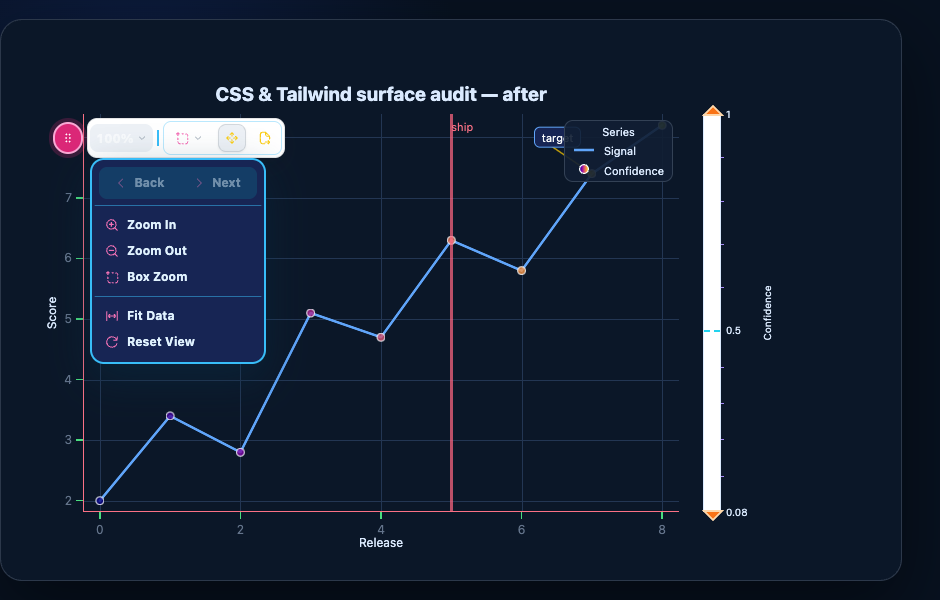
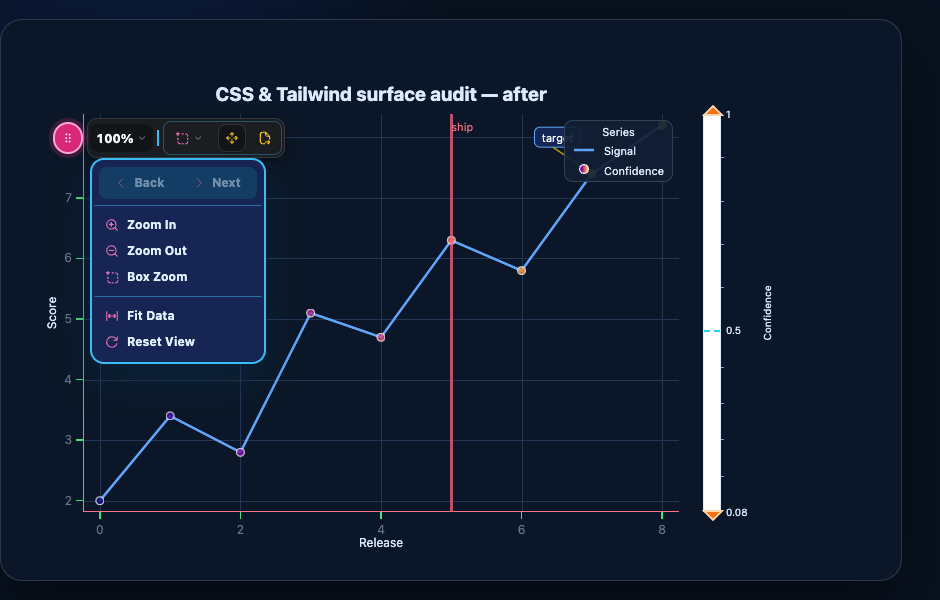
Use dark palette in styling evidence

Changed region(s): [[0.0926, 0.18, 0.3085, 0.27]]

diff --git a/scripts/css_tailwind_slot_evidence.py b/scripts/css_tailwind_slot_evidence.py
@@ -153,7 +153,9 @@ def audit_chart(label: str) -> xy.Chart:
             },
         ),
         title=f"CSS & Tailwind surface audit — {label}",
-        class_name="evidence",
+        # The fixture owns a dark chart surface, so opt into XY's documented
+        # scheme-aware modebar palette instead of leaving the light fallback.
+        class_name="evidence dark",
         class_names=SLOT_CLASSES,
         width=900,
         height=560,
